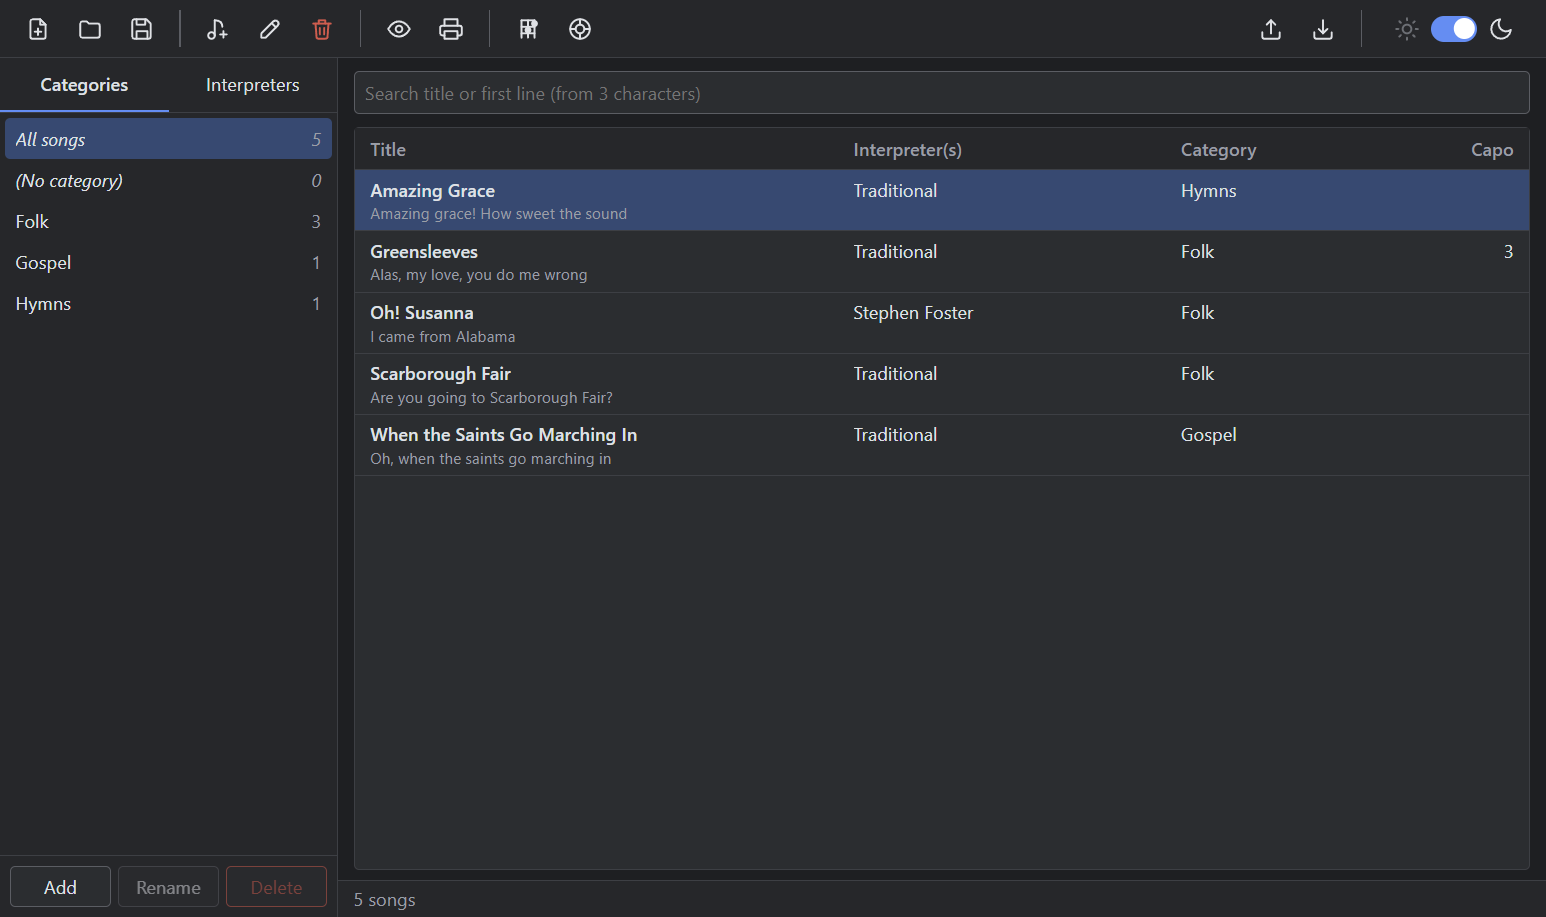
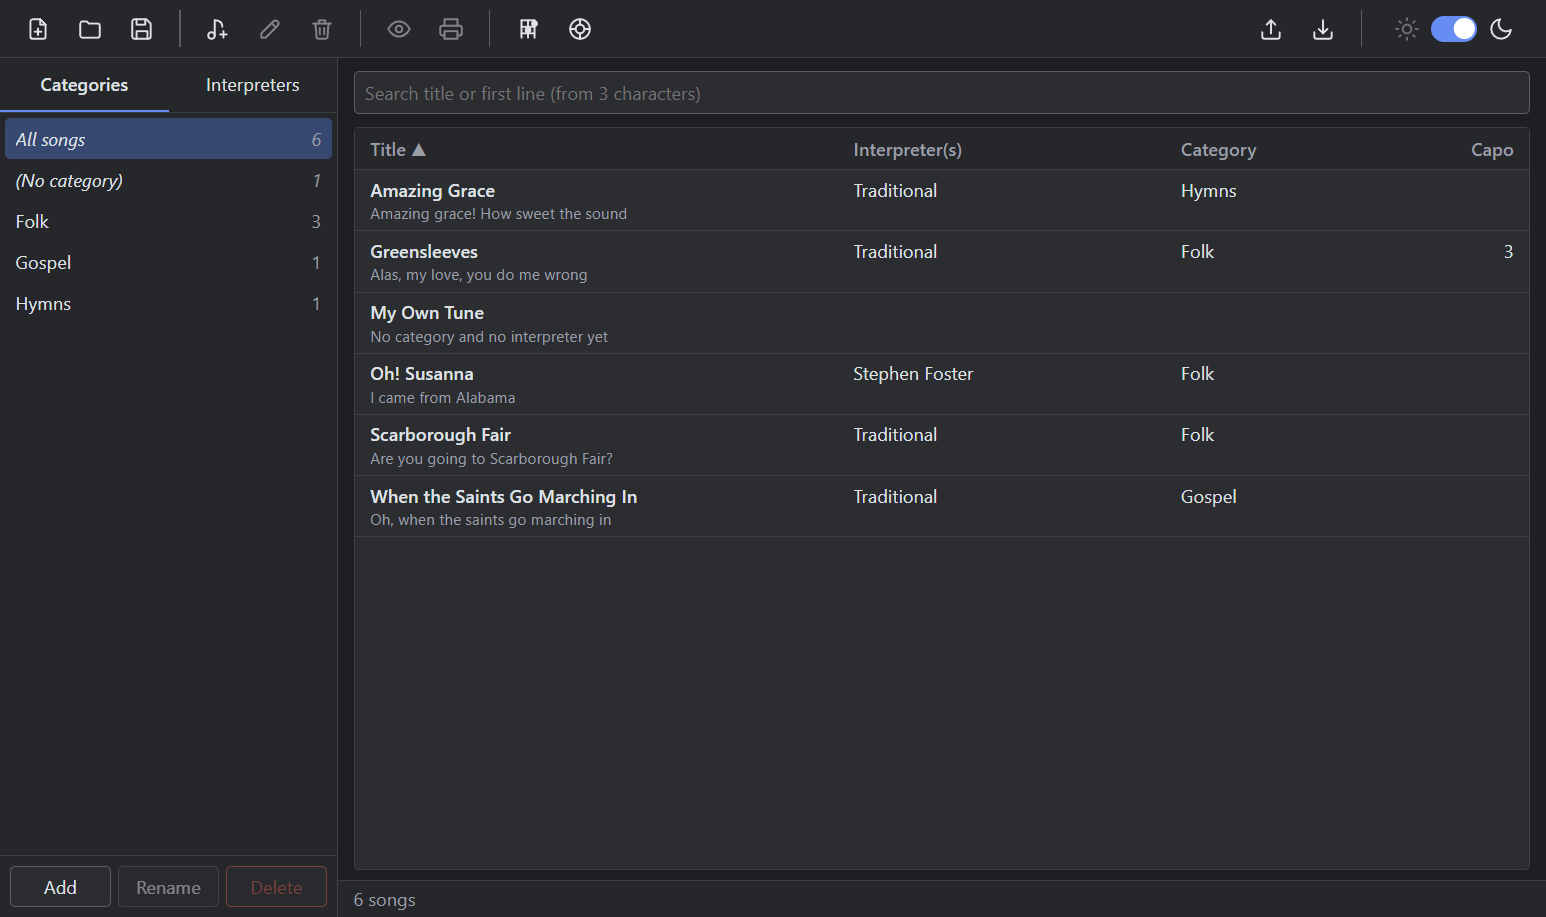
Add sorting of the song list by title, interpreters and category

diff --git a/src/renderer/src/App.tsx b/src/renderer/src/App.tsx
@@ -1,6 +1,6 @@
 import { useCallback, useEffect, useRef, useState } from 'react'
-import { MIN_SEARCH_LENGTH } from '../../shared/types'
-import type { CategoryList, CurrentFile, InterpreterList, MenuCommand, SongFilter, SongListItem, Theme } from '../../shared/types'
+import { DEFAULT_SONG_SORT, MIN_SEARCH_LENGTH } from '../../shared/types'
+import type { CategoryList, CurrentFile, InterpreterList, MenuCommand, SongFilter, SongListItem, SongSort, SongSortColumn, Theme } from '../../shared/types'
 import { errorMessage, unwrap } from './api'
 import { ConfirmDialog } from './components/Dialogs'
 import { ChordLookup } from './components/ChordLookup'
@@ -37,6 +37,7 @@ export default function App(): React.JSX.Element | null {
   const [selection, setSelection] = useState<Selection>({ kind: 'all' })
   const [search, setSearch] = useState('')
   const [songs, setSongs] = useState<SongListItem[]>([])
+  const [sort, setSort] = useState<SongSort>(DEFAULT_SONG_SORT)
   const [categories, setCategories] = useState<CategoryList | null>(null)
   const [interpreters, setInterpreters] = useState<InterpreterList | null>(null)
   const [selectedSongId, setSelectedSongId] = useState<number | null>(null)
@@ -86,6 +87,7 @@ export default function App(): React.JSX.Element | null {
       setView({ mode: 'list' })
       setSelection({ kind: 'all' })
       setSearch('')
+      setSort(DEFAULT_SONG_SORT)
       setSelectedSongId(null)
       setDialog(null)
       setError(null)
@@ -125,7 +127,7 @@ export default function App(): React.JSX.Element | null {
   useEffect(() => {
     if (filePath === null) return
     let cancelled = false
-    unwrap(window.api.songs.list(JSON.parse(filterKey) as SongFilter))
+    unwrap(window.api.songs.list(JSON.parse(filterKey) as SongFilter, sort))
       .then((list) => {
         if (!cancelled) setSongs(list)
       })
@@ -135,7 +137,7 @@ export default function App(): React.JSX.Element | null {
     return () => {
       cancelled = true
     }
-  }, [filePath, filterKey, reloadToken, showError])
+  }, [filePath, filterKey, sort, reloadToken, showError])
 
   const selectedSong = songs.find((s) => s.id === selectedSongId)
   const activeSongId =
@@ -178,6 +180,10 @@ export default function App(): React.JSX.Element | null {
     } catch (e) {
       showError(e)
     }
+  }
+
+  function changeSort(column: SongSortColumn): void {
+    setSort((current) => ({ column, direction: current.column === column && current.direction === 'asc' ? 'desc' : 'asc' }))
   }
 
   function changeTab(next: SidebarTab): void {
@@ -338,6 +344,8 @@ export default function App(): React.JSX.Element | null {
           songs={songs}
           selectedId={selectedSongId}
           emptyText={emptyText}
+          sort={sort}
+          onSortChange={changeSort}
           onSelect={setSelectedSongId}
           onOpen={(id) => setView({ mode: 'edit', songId: id })}
           onDelete={(song) => setDialog({ kind: 'delete-song', song })}

diff --git a/src/main/repositories/songs.ts b/src/main/repositories/songs.ts
@@ -4,7 +4,8 @@ import { categories, interpreters, songInterpreters, songs } from '../db/schema'
 import { UserError } from '../errors'
 import { getOrCreateCategory } from './categories'
 import { getOrCreateInterpreter } from './interpreters'
-import type { SongDetail, SongFilter, SongInput, SongListItem } from '../../shared/types'
+import type { SongDetail, SongFilter, SongInput, SongListItem, SongSort } from '../../shared/types'
+import { DEFAULT_SONG_SORT } from '../../shared/types'
 
 function filterCondition(filter: SongFilter): SQL | undefined {
   switch (filter.kind) {
@@ -23,7 +24,31 @@ function filterCondition(filter: SongFilter): SQL | undefined {
   }
 }
 
-export function listSongs(db: AppDb, filter: SongFilter): SongListItem[] {
+const interpreterNames = sql<string | null>`(
+  select group_concat(name, ', ') from (
+    select ${interpreters.name} as name
+    from ${songInterpreters}
+    join ${interpreters} on ${interpreters.id} = ${songInterpreters.interpreterId}
+    where ${songInterpreters.songId} = ${songs.id}
+    order by sort_key(${interpreters.name})
+  )
+)`
+
+/** The chosen column first, then title and id so the order is stable. NULLs (no category / interpreter) sort first ascending, last descending. */
+function orderClauses(sort: SongSort): SQL[] {
+  const direction = sql.raw(sort.direction === 'desc' ? 'desc' : 'asc')
+  const byTitle = sql`sort_key(${songs.title})`
+  switch (sort.column) {
+    case 'title':
+      return [sql`${byTitle} ${direction}`, sql`${songs.id} asc`]
+    case 'interpreters':
+      return [sql`sort_key(${interpreterNames}) ${direction}`, sql`${byTitle} asc`, sql`${songs.id} asc`]
+    case 'category':
+      return [sql`sort_key(${categories.name}) ${direction}`, sql`${byTitle} asc`, sql`${songs.id} asc`]
+  }
+}
+
+export function listSongs(db: AppDb, filter: SongFilter, sort: SongSort = DEFAULT_SONG_SORT): SongListItem[] {
   return db
     .select({
       id: songs.id,
@@ -31,20 +56,12 @@ export function listSongs(db: AppDb, filter: SongFilter): SongListItem[] {
       category: categories.name,
       capo: songs.capo,
       firstLine: songs.firstLine,
-      interpreters: sql<string | null>`(
-        select group_concat(name, ', ') from (
-          select ${interpreters.name} as name
-          from ${songInterpreters}
-          join ${interpreters} on ${interpreters.id} = ${songInterpreters.interpreterId}
-          where ${songInterpreters.songId} = ${songs.id}
-          order by sort_key(${interpreters.name})
-        )
-      )`
+      interpreters: interpreterNames
     })
     .from(songs)
     .leftJoin(categories, eq(songs.categoryId, categories.id))
     .where(filterCondition(filter))
-    .orderBy(sql`sort_key(${songs.title})`, songs.id)
+    .orderBy(...orderClauses(sort))
     .all()
     .map((row) => ({ ...row, interpreters: row.interpreters ?? '' }))
 }

diff --git a/src/renderer/src/components/SongTable.tsx b/src/renderer/src/components/SongTable.tsx
@@ -1,17 +1,31 @@
 import { useEffect, useRef } from 'react'
 import type { KeyboardEvent } from 'react'
-import type { SongListItem } from '../../../shared/types'
+import type { SongListItem, SongSort, SongSortColumn } from '../../../shared/types'
 
 interface SongTableProps {
   songs: SongListItem[]
   selectedId: number | null
   emptyText: string
+  sort: SongSort
+  onSortChange: (column: SongSortColumn) => void
   onSelect: (id: number) => void
   onOpen: (id: number) => void
   onDelete: (song: SongListItem) => void
 }
 
-export function SongTable({ songs, selectedId, emptyText, onSelect, onOpen, onDelete }: SongTableProps): React.JSX.Element {
+function SortHeader({ column, label, sort, onSortChange }: { column: SongSortColumn; label: string; sort: SongSort; onSortChange: (column: SongSortColumn) => void }): React.JSX.Element {
+  const active = sort.column === column
+  return (
+    <span role="columnheader" aria-sort={active ? (sort.direction === 'asc' ? 'ascending' : 'descending') : 'none'}>
+      <button type="button" className="sort-button" onClick={() => onSortChange(column)} title={`Sort by ${label.toLowerCase()}`}>
+        {label}
+        {active && <span aria-hidden="true"> {sort.direction === 'asc' ? '\u25B2' : '\u25BC'}</span>}
+      </button>
+    </span>
+  )
+}
+
+export function SongTable({ songs, selectedId, emptyText, sort, onSortChange, onSelect, onOpen, onDelete }: SongTableProps): React.JSX.Element {
   const bodyRef = useRef<HTMLDivElement>(null)
 
   useEffect(() => {
@@ -51,9 +65,9 @@ export function SongTable({ songs, selectedId, emptyText, onSelect, onOpen, onDe
   return (
     <div className="song-table" role="grid" aria-label="Songs" aria-rowcount={songs.length}>
       <div className="song-header" role="row">
-        <span role="columnheader">Title</span>
-        <span role="columnheader">Interpreter(s)</span>
-        <span role="columnheader">Category</span>
+        <SortHeader column="title" label="Title" sort={sort} onSortChange={onSortChange} />
+        <SortHeader column="interpreters" label="Interpreter(s)" sort={sort} onSortChange={onSortChange} />
+        <SortHeader column="category" label="Category" sort={sort} onSortChange={onSortChange} />
         <span role="columnheader" className="capo-col">
           Capo
         </span>

diff --git a/tests/repositories.test.ts b/tests/repositories.test.ts
@@ -148,6 +148,37 @@ describe('filters and search', () => {
     expect(apple).toMatchObject({ interpreters: 'Band, Solo', category: 'Pop' })
   })
 
+  it('sorts by title in both directions', () => {
+    const titles = (direction: 'asc' | 'desc'): string[] => listSongs(handle.db, { kind: 'all' }, { column: 'title', direction }).map((s) => s.title)
+    expect(titles('asc')).toEqual(['Äpfel', 'apple', 'Zebra'])
+    expect(titles('desc')).toEqual(['Zebra', 'apple', 'Äpfel'])
+  })
+
+  it('sorts by interpreters with empty values first ascending and last descending', () => {
+    const titles = (direction: 'asc' | 'desc'): string[] => listSongs(handle.db, { kind: 'all' }, { column: 'interpreters', direction }).map((s) => s.title)
+    expect(titles('asc')).toEqual(['Äpfel', 'Zebra', 'apple'])
+    expect(titles('desc')).toEqual(['apple', 'Zebra', 'Äpfel'])
+  })
+
+  it('sorts by category with empty values first ascending and last descending', () => {
+    const titles = (direction: 'asc' | 'desc'): string[] => listSongs(handle.db, { kind: 'all' }, { column: 'category', direction }).map((s) => s.title)
+    expect(titles('asc')).toEqual(['Äpfel', 'apple', 'Zebra'])
+    expect(titles('desc')).toEqual(['Zebra', 'apple', 'Äpfel'])
+  })
+
+  it('breaks ties by title ascending in either direction', () => {
+    createSong(handle.db, song({ title: 'Bravo' }))
+    const titles = (direction: 'asc' | 'desc'): string[] => listSongs(handle.db, { kind: 'all' }, { column: 'category', direction }).map((s) => s.title)
+    expect(titles('asc')).toEqual(['Äpfel', 'Bravo', 'apple', 'Zebra'])
+    expect(titles('desc')).toEqual(['Zebra', 'apple', 'Äpfel', 'Bravo'])
+  })
+
+  it('applies the sort to filtered lists too', () => {
+    const band = listInterpreters(handle.db).items.find((i) => i.name === 'Band')!
+    const sorted = listSongs(handle.db, { kind: 'interpreter', id: band.id }, { column: 'title', direction: 'desc' })
+    expect(sorted.map((s) => s.title)).toEqual(['Zebra', 'apple'])
+  })
+
   it('filters by category including the virtual "no category"', () => {
     const rock = listCategories(handle.db).items.find((c) => c.name === 'Rock')!
     expect(listSongs(handle.db, { kind: 'category', id: rock.id }).map((s) => s.title)).toEqual(['Zebra'])

diff --git a/src/main/ipc/handlers.ts b/src/main/ipc/handlers.ts
@@ -9,7 +9,7 @@ import { getTheme, setTheme } from '../settings'
 import { exportSongsToFile, importSongsFromFile } from '../transferFiles'
 import { printPage } from '../printing'
 import type { ApiResult } from '../../shared/types'
-import { formatValidationError, idSchema, nameSchema, songFilterSchema, songInputSchema, themeSchema } from './validation'
+import { formatValidationError, idSchema, nameSchema, songFilterSchema, songInputSchema, songSortSchema, themeSchema } from './validation'
 
 function parse<T>(schema: z.ZodType<T>, value: unknown): T {
   const result = schema.safeParse(value)
@@ -45,7 +45,7 @@ export function registerIpcHandlers(): void {
   handle('file:openRecent', (_e, path) => openPath(parse(z.string().min(1), path)))
   handle('file:saveAs', (event) => saveAs(windowOf(event)))
 
-  handle('songs:list', (_e, filter) => listSongs(getHandle().db, parse(songFilterSchema, filter)))
+  handle('songs:list', (_e, filter, sort) => listSongs(getHandle().db, parse(songFilterSchema, filter), parse(songSortSchema.optional(), sort)))
   handle('songs:get', (_e, id) => getSong(getHandle().db, parse(idSchema, id)))
   handle('songs:create', (_e, input) => createSong(getHandle().db, parse(songInputSchema, input)))
   handle('songs:update', (_e, id, input) => updateSong(getHandle().db, parse(idSchema, id), parse(songInputSchema, input)))

diff --git a/src/shared/types.ts b/src/shared/types.ts
@@ -49,6 +49,16 @@ export type SongFilter =
   | { kind: 'interpreter'; id: number | null }
   | { kind: 'search'; term: string }
 
+/** Empty interpreters / categories sort first ascending and last descending. */
+export type SongSortColumn = 'title' | 'interpreters' | 'category'
+
+export interface SongSort {
+  column: SongSortColumn
+  direction: 'asc' | 'desc'
+}
+
+export const DEFAULT_SONG_SORT: SongSort = { column: 'title', direction: 'asc' }
+
 export interface SongListItem {
   id: number
   title: string
@@ -145,7 +155,7 @@ export interface SimpleLyricsApi {
     saveAs(): Promise<ApiResult<CurrentFile | null>>
   }
   songs: {
-    list(filter: SongFilter): Promise<ApiResult<SongListItem[]>>
+    list(filter: SongFilter, sort?: SongSort): Promise<ApiResult<SongListItem[]>>
     get(id: number): Promise<ApiResult<SongDetail | null>>
     create(input: SongInput): Promise<ApiResult<number>>
     update(id: number, input: SongInput): Promise<ApiResult<void>>

diff --git a/src/renderer/src/styles.css b/src/renderer/src/styles.css
@@ -415,6 +415,24 @@ textarea {
   text-align: right;
 }
 
+.sort-button {
+  max-width: 100%;
+  padding: 0;
+  border: none;
+  background: none;
+  font: inherit;
+  color: inherit;
+  text-align: left;
+  overflow: hidden;
+  text-overflow: ellipsis;
+  white-space: nowrap;
+}
+
+.sort-button:hover:not(:disabled) {
+  background: none;
+  color: var(--text);
+}
+
 .empty {
   margin: 24px;
   text-align: center;

diff --git a/src/main/ipc/validation.ts b/src/main/ipc/validation.ts
@@ -35,6 +35,11 @@ export const songFilterSchema = z.discriminatedUnion('kind', [
   z.object({ kind: z.literal('search'), term: z.string().max(LIMITS.title * 2) })
 ])
 
+export const songSortSchema = z.object({
+  column: z.enum(['title', 'interpreters', 'category']),
+  direction: z.enum(['asc', 'desc'])
+})
+
 export const songInputSchema = z.object({
   title: z
     .string()

diff --git a/src/preload/index.ts b/src/preload/index.ts
@@ -13,7 +13,7 @@ const api: SimpleLyricsApi = {
     saveAs: () => call('file:saveAs')
   },
   songs: {
-    list: (filter) => call('songs:list', filter),
+    list: (filter, sort) => call('songs:list', filter, sort),
     get: (id) => call('songs:get', id),
     create: (input) => call('songs:create', input),
     update: (id, input) => call('songs:update', id, input),

diff --git a/__documentation/reference-ui-and-shortcuts.md b/__documentation/reference-ui-and-shortcuts.md
@@ -68,6 +68,22 @@ Rows have two lines: title, interpreters, category and capo; below that, the fir
 
 ![Song list with sidebar](images/song-list.png)
 
+### Sorting
+
+Click the **Title**, **Interpreter(s)** or **Category** header to sort the list by that column. The active column shows an arrow (▲ ascending, ▼ descending).
+
+| Click | Result |
+|---|---|
+| Another header | Sorts by that column, ascending. |
+| The active header | Reverses the direction. |
+
+- The default is the title, ascending.
+- Songs without a category or interpreter come first when sorting ascending and last when sorting descending.
+- Songs with the same value are ordered by title, ascending, in both directions.
+- The sort applies to the sidebar selection and to search results.
+- The sort is not saved. It returns to the default when you open another file or restart the app.
+- Sorting uses the same Unicode-aware ordering as the default list. The headers are buttons, so they can be focused with `Tab` and activated with `Enter` or `Space`.
+
 ## Search
 
 - Starts at 3 characters (`MIN_SEARCH_LENGTH`). Shorter input falls back to the sidebar selection.

diff --git a/__documentation/roadmap-and-known-gaps.md b/__documentation/roadmap-and-known-gaps.md
@@ -30,7 +30,7 @@ The automated tests cover the data layer, not these areas:
 | Idea | Notes |
 |---|---|
 | Import conflict modes | Alternatives to "skip": update the existing song, keep both when the content differs, or ask per song. |
-| Sort by column | Sort the song list by title, interpreter, category or capo. |
+| More sort options | Sort by capo or first line, sort by several columns, or remember the sort across restarts. |
 | Chord transposition | Transpose chords and the key by a number of semitones. Needs a parser for chord notation. |
 | Print several songs | Print the selection or a whole category in one job. |
 | Key on the print sheet | Show the key (and original key) on the sheet next to the capo. |

diff --git a/README.md b/README.md
@@ -9,6 +9,7 @@ The UI language is English.
 - One songbook per file: each database is a `.sng` file that you can copy, back up or move.
 - Songs with title, key, original key, first line, capo (0–12), chords, lyrics, one category and any number of interpreters.
 - Sidebar to browse by category or interpreter, with song counts.
+- Sort the song list by title, interpreters or category.
 - Search by title and first line, from 3 characters, with Unicode-aware matching.
 - Preview and print of a single song (black on white, A4 layout, auto-fitted font size).
 - Chord diagrams for the chords used in a song, shown above the chords text in the preview and print-out.
